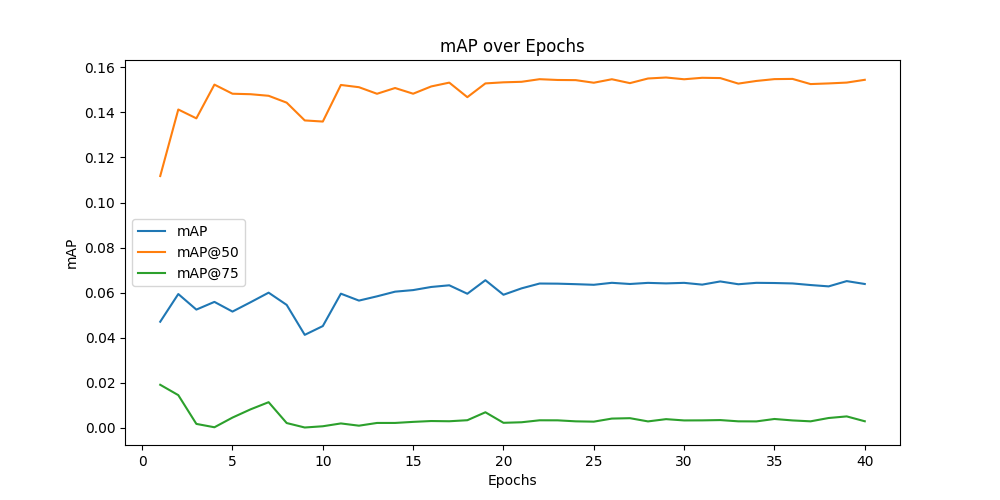
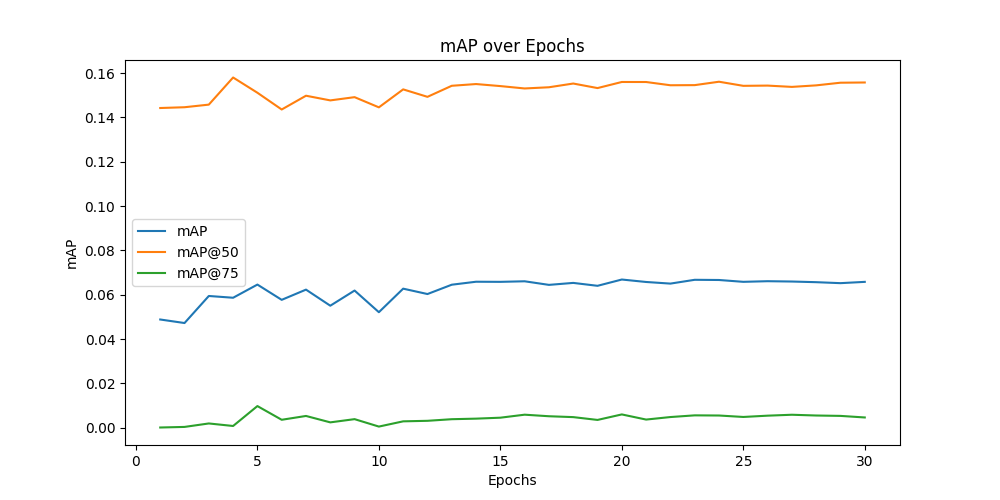
change layout

diff --git a/README.md b/README.md
@@ -91,7 +91,7 @@ The configuration files change the following hyper-parameters during the trainin
         MILESTONES: [10, 20]
         GAMMA: 0.1
         BATCH_SIZE: 4
-        NUM_EPOCHS: 40
+        NUM_EPOCHS: 70
         EARLY_STOPPING: False
 
     **AUGMENTATION**:
@@ -119,7 +119,7 @@ The configuration files change the following hyper-parameters during the trainin
         MILESTONES: [10, 20]
         GAMMA: 0.1
         BATCH_SIZE: 2
-        NUM_EPOCHS: 40
+        NUM_EPOCHS: 70
         EARLY_STOPPING: False
 
     **AUGMENTATION**:
@@ -147,7 +147,7 @@ The configuration files change the following hyper-parameters during the trainin
         MILESTONES: [10, 20]
         GAMMA: 0.1
         BATCH_SIZE: 8
-        NUM_EPOCHS: 60
+        NUM_EPOCHS: 100
         EARLY_STOPPING: False
 
     **AUGMENTATION**:
@@ -156,8 +156,8 @@ The configuration files change the following hyper-parameters during the trainin
 
 # Results  
 ## FasterRCNN-ResNet50
-#### Version: 6/7
-The Model is run using the GPU P100 Accelerator for 70 Epochs.  
+#### Version: 2/7 & 6/7
+The Model is trained using the GPU P100 Accelerator in 2 batches, for 70 Epochs.  
 | Results   |   Epoch: 1/70   |   Epoch: 40/70    |   Epoch: 70/70 |
 |:---------:|:---------------:|:-----------------:|:--------------:|
 |Training Loss| 2.2911 | 0.5665| 0.3994 |
@@ -169,25 +169,23 @@ The Model is run using the GPU P100 Accelerator for 70 Epochs.
 |mAP_large| 1.026036479594107e-06 | 0.06002088844494126 | 0.06578527159756851 |
 |Training Time| 3Min 59sec | 3Min 46sec | 04Min 27sec | 
 |Evaluation Time| 52sec | 50sec | 01Min 01sec |  
-
-## Inference Images: First Run
-The `visualize_inference_results` function in utils.py uses the saved model to generate the inference images from the trained model.
-
-### Sample Predictions: (Table Elements)
-![inference_129](./images/inference_129_Resnet50_firstRun.png)
-![inference_112](./images/inference_112_Resnet50_firstRun.png)
-![inference_43](./images/inference_43_Resnet50_firstRun.png)
-![inference_47](./images/inference_47_Resnet50_firstRun.png)
-
-
-## Training Loss over Epochs: First Run
-The `plot_metrics` function in utils.py uses the saved results to plot the Training losses over 40 epochs.  
-![Training Loss](./images/training_loss_Resnet50_firstRun.png)
+  
+## Training Loss over Epochs:  
+The `plot_metrics` function in utils.py uses the saved results to plot the Training losses over 40-70 epochs.  
+![Training Loss](./images/training_loss_Resnet50_secondRun.png)
 
 ## mAP Metrics Plotting: First Run
 The `plot_metrics` function also uses the saved results to plot the mAP Metrics along the training process.  
-![mAP_firstRun](./images/mAP_Resnet50_firstRun.png)
-![mAP_sizes_firstRun](./images/mAP_sizes_Resnet50_firstRun.png)  
+![mAP_secondRun](./images/mAP_Resnet50_secondRun.png)
+![mAP_sizes_secondRun](./images/mAP_sizes_Resnet50_secondRun.png)  
+
+## Inference Images: ResNet50 Backbone  
+The `visualize_inference_results` function in the Kaagle Notebook uses the saved model to generate the inference images from the trained model, plotting each detected class element in a separate image, for better understanding the results:  
+  
+![Resnet50_label1](./images/test_inference_resnet50_config_second_class_1.png)  
+![Resnet50_label2](./images/test_inference_resnet50_config_second_class_2.png)  
+![Resnet50_label3](./images/test_inference_resnet50_config_second_class_3.png)  
+![Resnet50_label5](./images/test_inference_resnet50_config_second_class_5.png)  
 
 -------------------------------------------------------------------------------------------------------------
 ## Second Configuration: ResNet101
